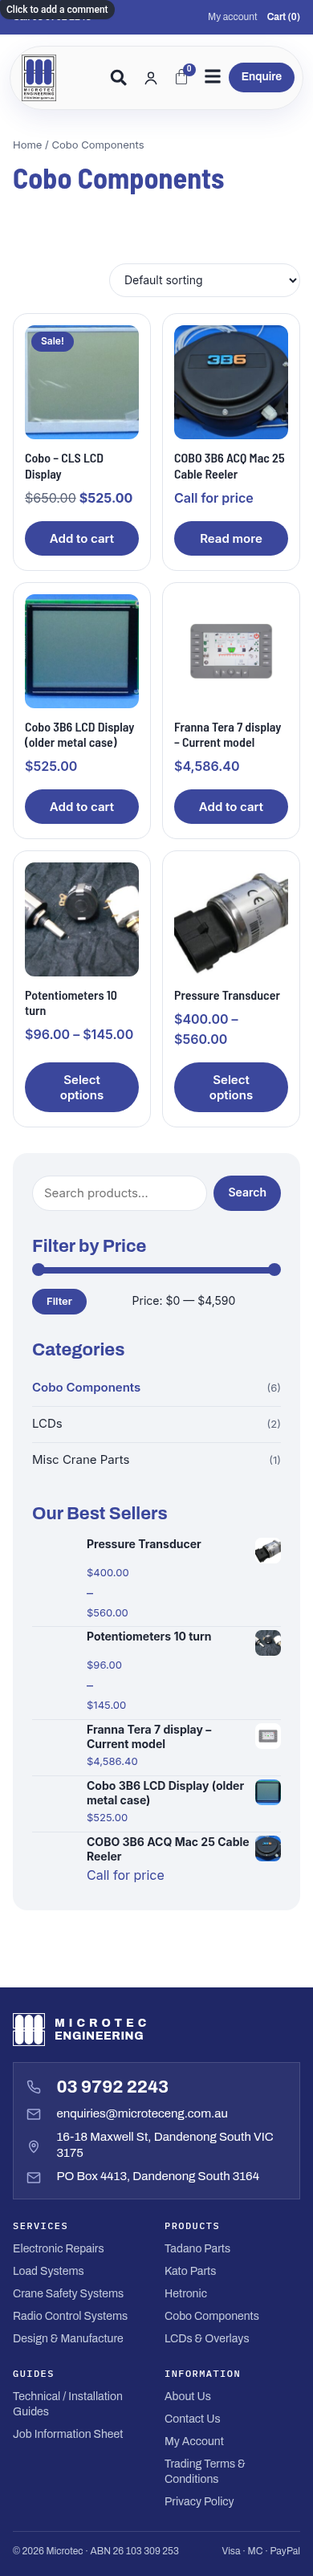
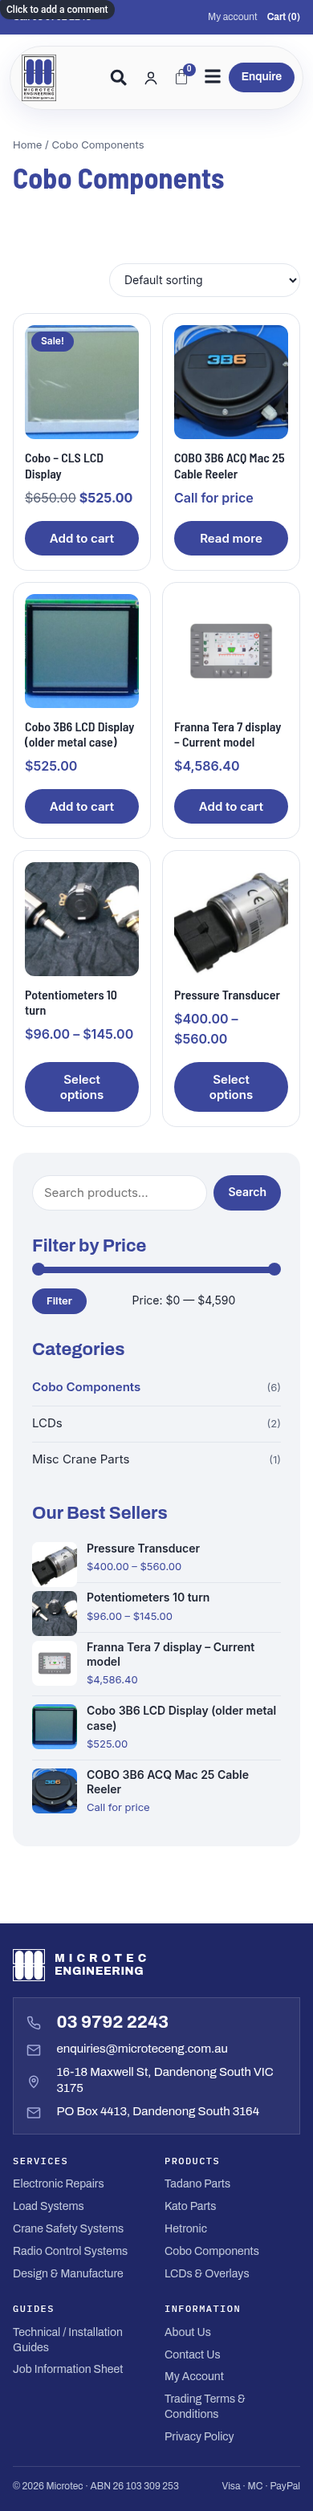
Shop sidebar scrolls with the page (it is taller than the screen, so sticky hid its end)
Claude-Session: https://claude.ai/code/session_01MjuF5y9GywKpULBg13vquR

diff --git a/wp-build/theme/assets/css/mt-shop.css b/wp-build/theme/assets/css/mt-shop.css
@@ -39,8 +39,6 @@ body.mt-catalog #main {
 	display: flex;
 	flex-direction: column;
 	gap: 32px;
-	position: sticky;
-	top: 24px;
 }
 
 .mt-shop-widget-title {
@@ -385,7 +383,7 @@ body.woocommerce .related ul.products li.product .woocommerce-loop-product__titl
 @media (max-width: 859px) {
 	.mt-shop { grid-template-columns: 1fr; padding-top: 32px; }
 	.mt-shop-main { order: 1; }
-	.mt-shop-side { order: 2; position: static; }
+	.mt-shop-side { order: 2; }
 }
 
 @media (max-width: 559px) {
